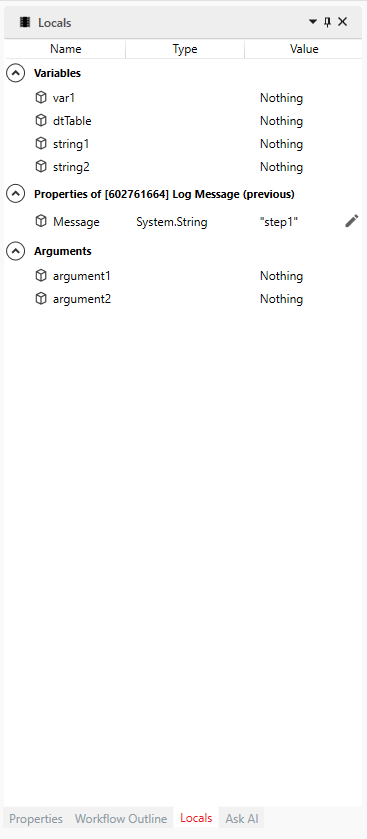
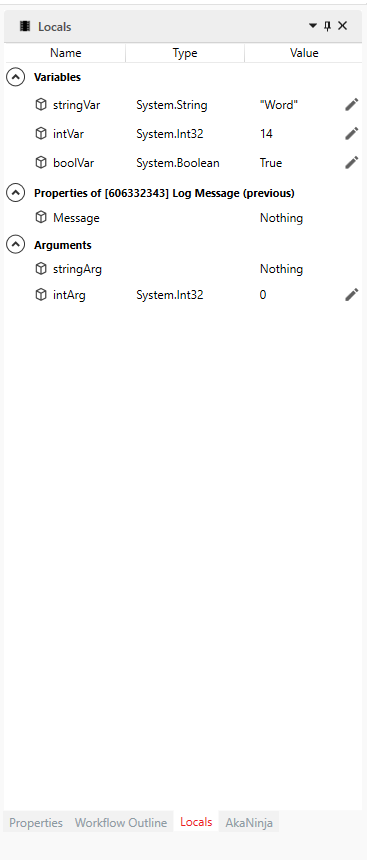
docs: add debugger user guide

diff --git a/docs/studio/latest/user-guide/how-to-use-debugger.md b/docs/studio/latest/user-guide/how-to-use-debugger.md
@@ -48,12 +48,12 @@ The following actions are available in the Debug ribbon while a debugging sessio
 
 **Open Logs** is available from the **Home** ribbon tab, not the Debug tab. It opens the folder containing the log files generated during execution, so you can review detailed information about what happened while debugging.
 
-![Open Logs](/static/img/image-20220506164423-31.png)
+![open-logs](/static/img/open-logs.png)
 
 ### Setting a Breakpoint
 
 1. Select the activity where you want execution to pause.
-2. On the **Debug** ribbon, click **Breakpoints**, then select **Toggle Breakpoint** from the menu.
+2. On the **Debug** ribbon, click **Breakpoints**, then select **Toggle Breakpoint** from the menu (or press `F9`).
 
    ![debug-breakpoint-set](/static/img/debug-breakpoint-set.png)
 
@@ -62,9 +62,22 @@ The following actions are available in the Debug ribbon while a debugging sessio
    ![breakpoint-log-message](/static/img/breakpoint-log-message.png)
 
 4. Click **Debug**. Execution pauses right before the activity with the breakpoint runs.
-5. Use **Step Into**, **Step Over**, or **Continue** to resume from there.
+5. Use **Step Into** (`F11`), **Step Over** (`F10`), or **Continue** to resume from there.
 
 To remove a single breakpoint, select its activity, click **Breakpoints**, then **Toggle Breakpoint** again. To remove every breakpoint in the project at once, click **Breakpoints**, then **Delete All Breakpoints**.
+
+### Shortcuts
+
+The following keyboard shortcuts are available for the most common debugging and running actions:
+
+| Action | Shortcut |
+| --- | --- |
+| **Debug** | `Ctrl + F5` |
+| **Start** | `F5` |
+| **Step Into** | `F11` |
+| **Step Over** | `F10` |
+| **Toggle Breakpoint** | `F9` |
+| **Stop** | `Shift + F5` |
 
 ## The Locals Panel
 
@@ -78,7 +91,7 @@ While debugging, the panel is organized into three areas:
 - **Properties of [activity] (previous)** — Shows the input and output properties of the most recently executed activity, such as the **Message** property of a **Log Message** activity.
 - **Arguments** — Lists the arguments defined for the current workflow, together with their type and current value.
 
-The Locals panel is only available while a debugging session is running, and opens automatically the first time you start one. If it isn't visible, look for the **Locals** tab next to **Properties**, **Workflow Outline**, and **Ask AI**. It updates automatically after each activity executes, making it easy to confirm that your workflow is producing the values you expect.
+The Locals panel is only available while a debugging session is running, and opens automatically the first time you start one. If it isn't visible, look for the **Locals** tab next to **Properties**, **Workflow Outline**, and **AkaNinja**. It updates automatically after each activity executes, making it easy to confirm that your workflow is producing the values you expect.
 
 ## The Breakpoints Panel
 
@@ -118,25 +131,27 @@ To add a new entry, click the empty row at the bottom of the panel (showing **En
 
 Values in the Watches panel are refreshed automatically after each activity executes while debugging. Use **Delete** to remove the selected entry, **Clear** to remove every entry at once, or **Refresh** to re-evaluate all watched expressions.
 
-## Quick Example: Debugging a Sample Workflow
+##  Example: Debugging a Sample Workflow
 
-This example walks through debugging a simple **Sequence** that logs a message, updates two variables, then branches on a condition.
+This example walks through debugging a simple **Sequence** that assigns two numbers, sums them, then branches on whether the sum is greater than 10.
 
-**The workflow**
+#### The Workflow
 
 | # | Activity | Details |
 | --- | --- | --- |
-| 1 | **Log Message** | Logs the current value of `stringVarriable`. |
-| 2 | **Assign** | `intVariable = 4 + 7` |
-| 3 | **Assign** | `stringVarriable = stringVarriable + " World"` |
-| 4 | **If** | Condition: `boolVariable` — logs `"Yes, it's true"` in **Then**, or `"No, it's not"` in **Else**. |
+| 1 | **Assign** | `number1 = 4` |
+| 2 | **Assign** | `number2 = 7` |
+| 3 | **Assign** | `sum = number1 + number2` |
+| 4 | **If** | Condition: `sum > 10` — logs `"Sum of two numbers is greater than 10!"` in **Then**, or `"Sum of two numbers is smaller than 10!"` in **Else**. |
 
-The Sequence defines three variables: `stringVarriable` (String, default `"hello"`), `intVariable` (Int32, no default), and `boolVariable` (Boolean, default `True`).
+The Sequence defines three variables: `number1`, `number2`, and `sum` (all Int32, no default).
 
 Where you set breakpoints is entirely up to you — it depends on which activities you want to pause on and inspect. This example sets one on each of the four activities above, so every variable change can be checked step by step.
 
-1. Set a breakpoint on each activity (see [Setting a Breakpoint](#setting-a-breakpoint)), then click **Debug**.
-2. Click **Continue** to move from one breakpoint to the next. After each **Assign** runs, check the **Locals** panel: `intVariable` becomes `11`, then `stringVarriable` becomes `"hello World"`.
-3. At the **If** breakpoint, use **Step Into** — since `boolVariable` is `True`, execution follows the **Then** branch and logs `"Yes, it's true"`.
+1. Set a breakpoint on each activity (see [Setting a Breakpoint](#setting-a-breakpoint)), then click **Debug** (or press `Ctrl + F5`).
+2. Click **Continue** to move from one breakpoint to the next. Watch the **Locals** panel: `number1` becomes `4`, then `number2` becomes `7`, then `sum` becomes `11`.
+3. At the **If** breakpoint, use **Step Into** — since `sum` (`11`) is greater than `10`, execution follows the **Then** branch and logs `"Sum of two numbers is greater than 10!"`.
 
-Open the **Breakpoints** panel any time to see all four breakpoints at once, or add `stringVarriable` to the **Watches** panel to track it without switching back to Locals.
+Open the **Breakpoints** panel any time to see all four breakpoints at once, or add `sum` to the **Watches** panel to track it without switching back to Locals.
+
+![example-debugger](/static/img/example-debugger.png)